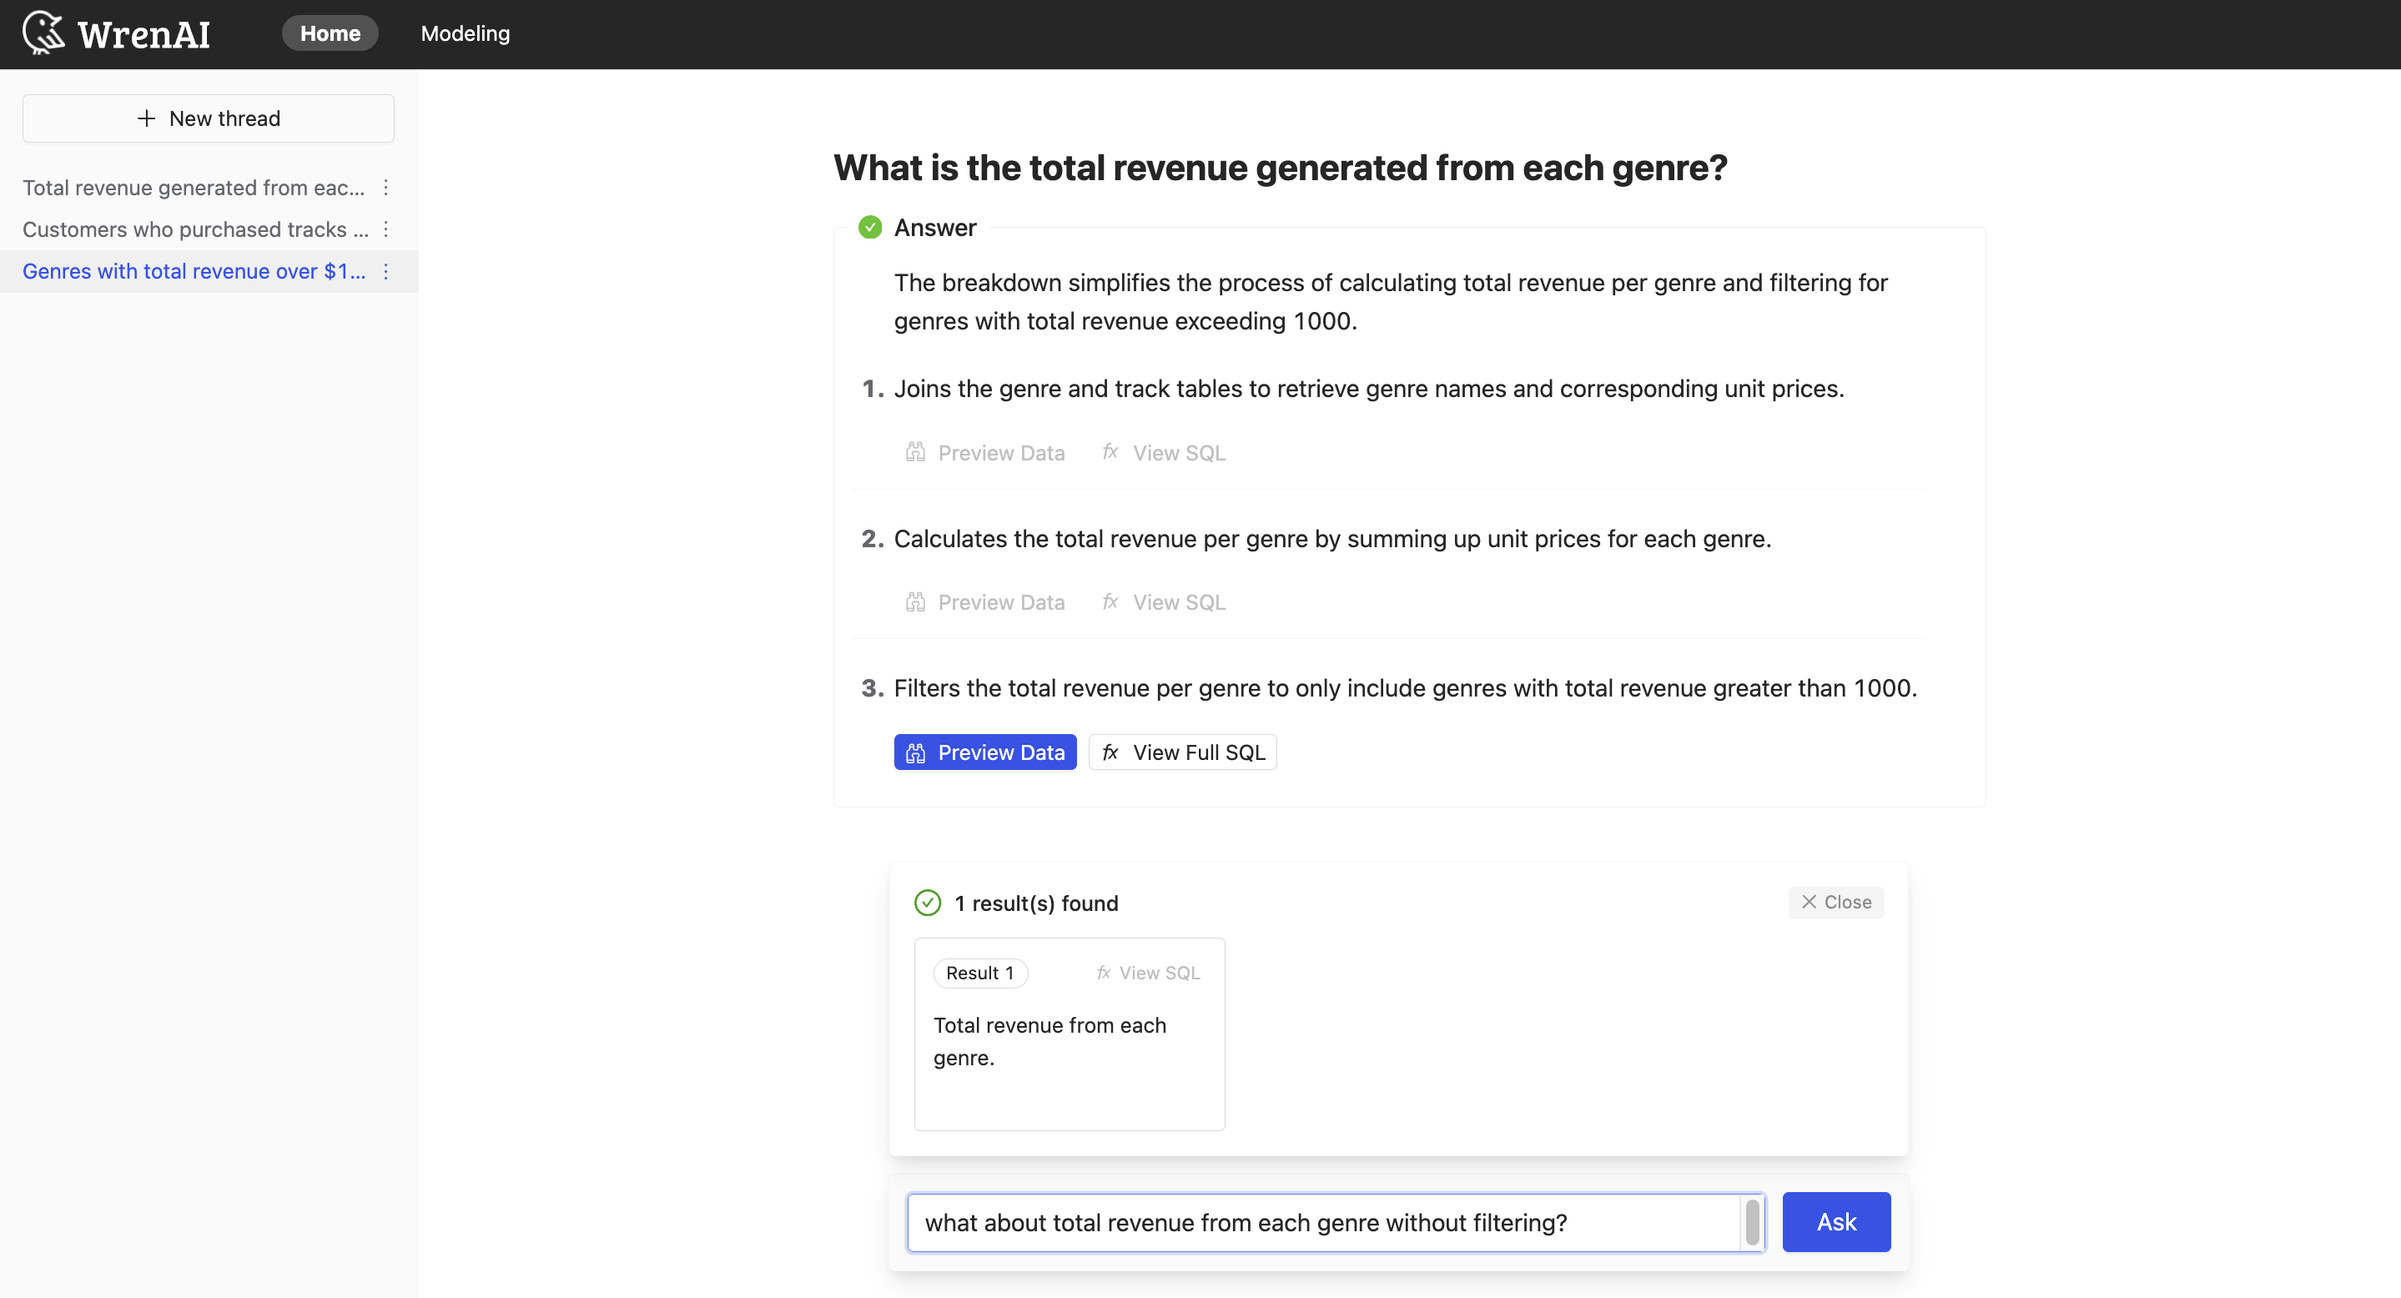
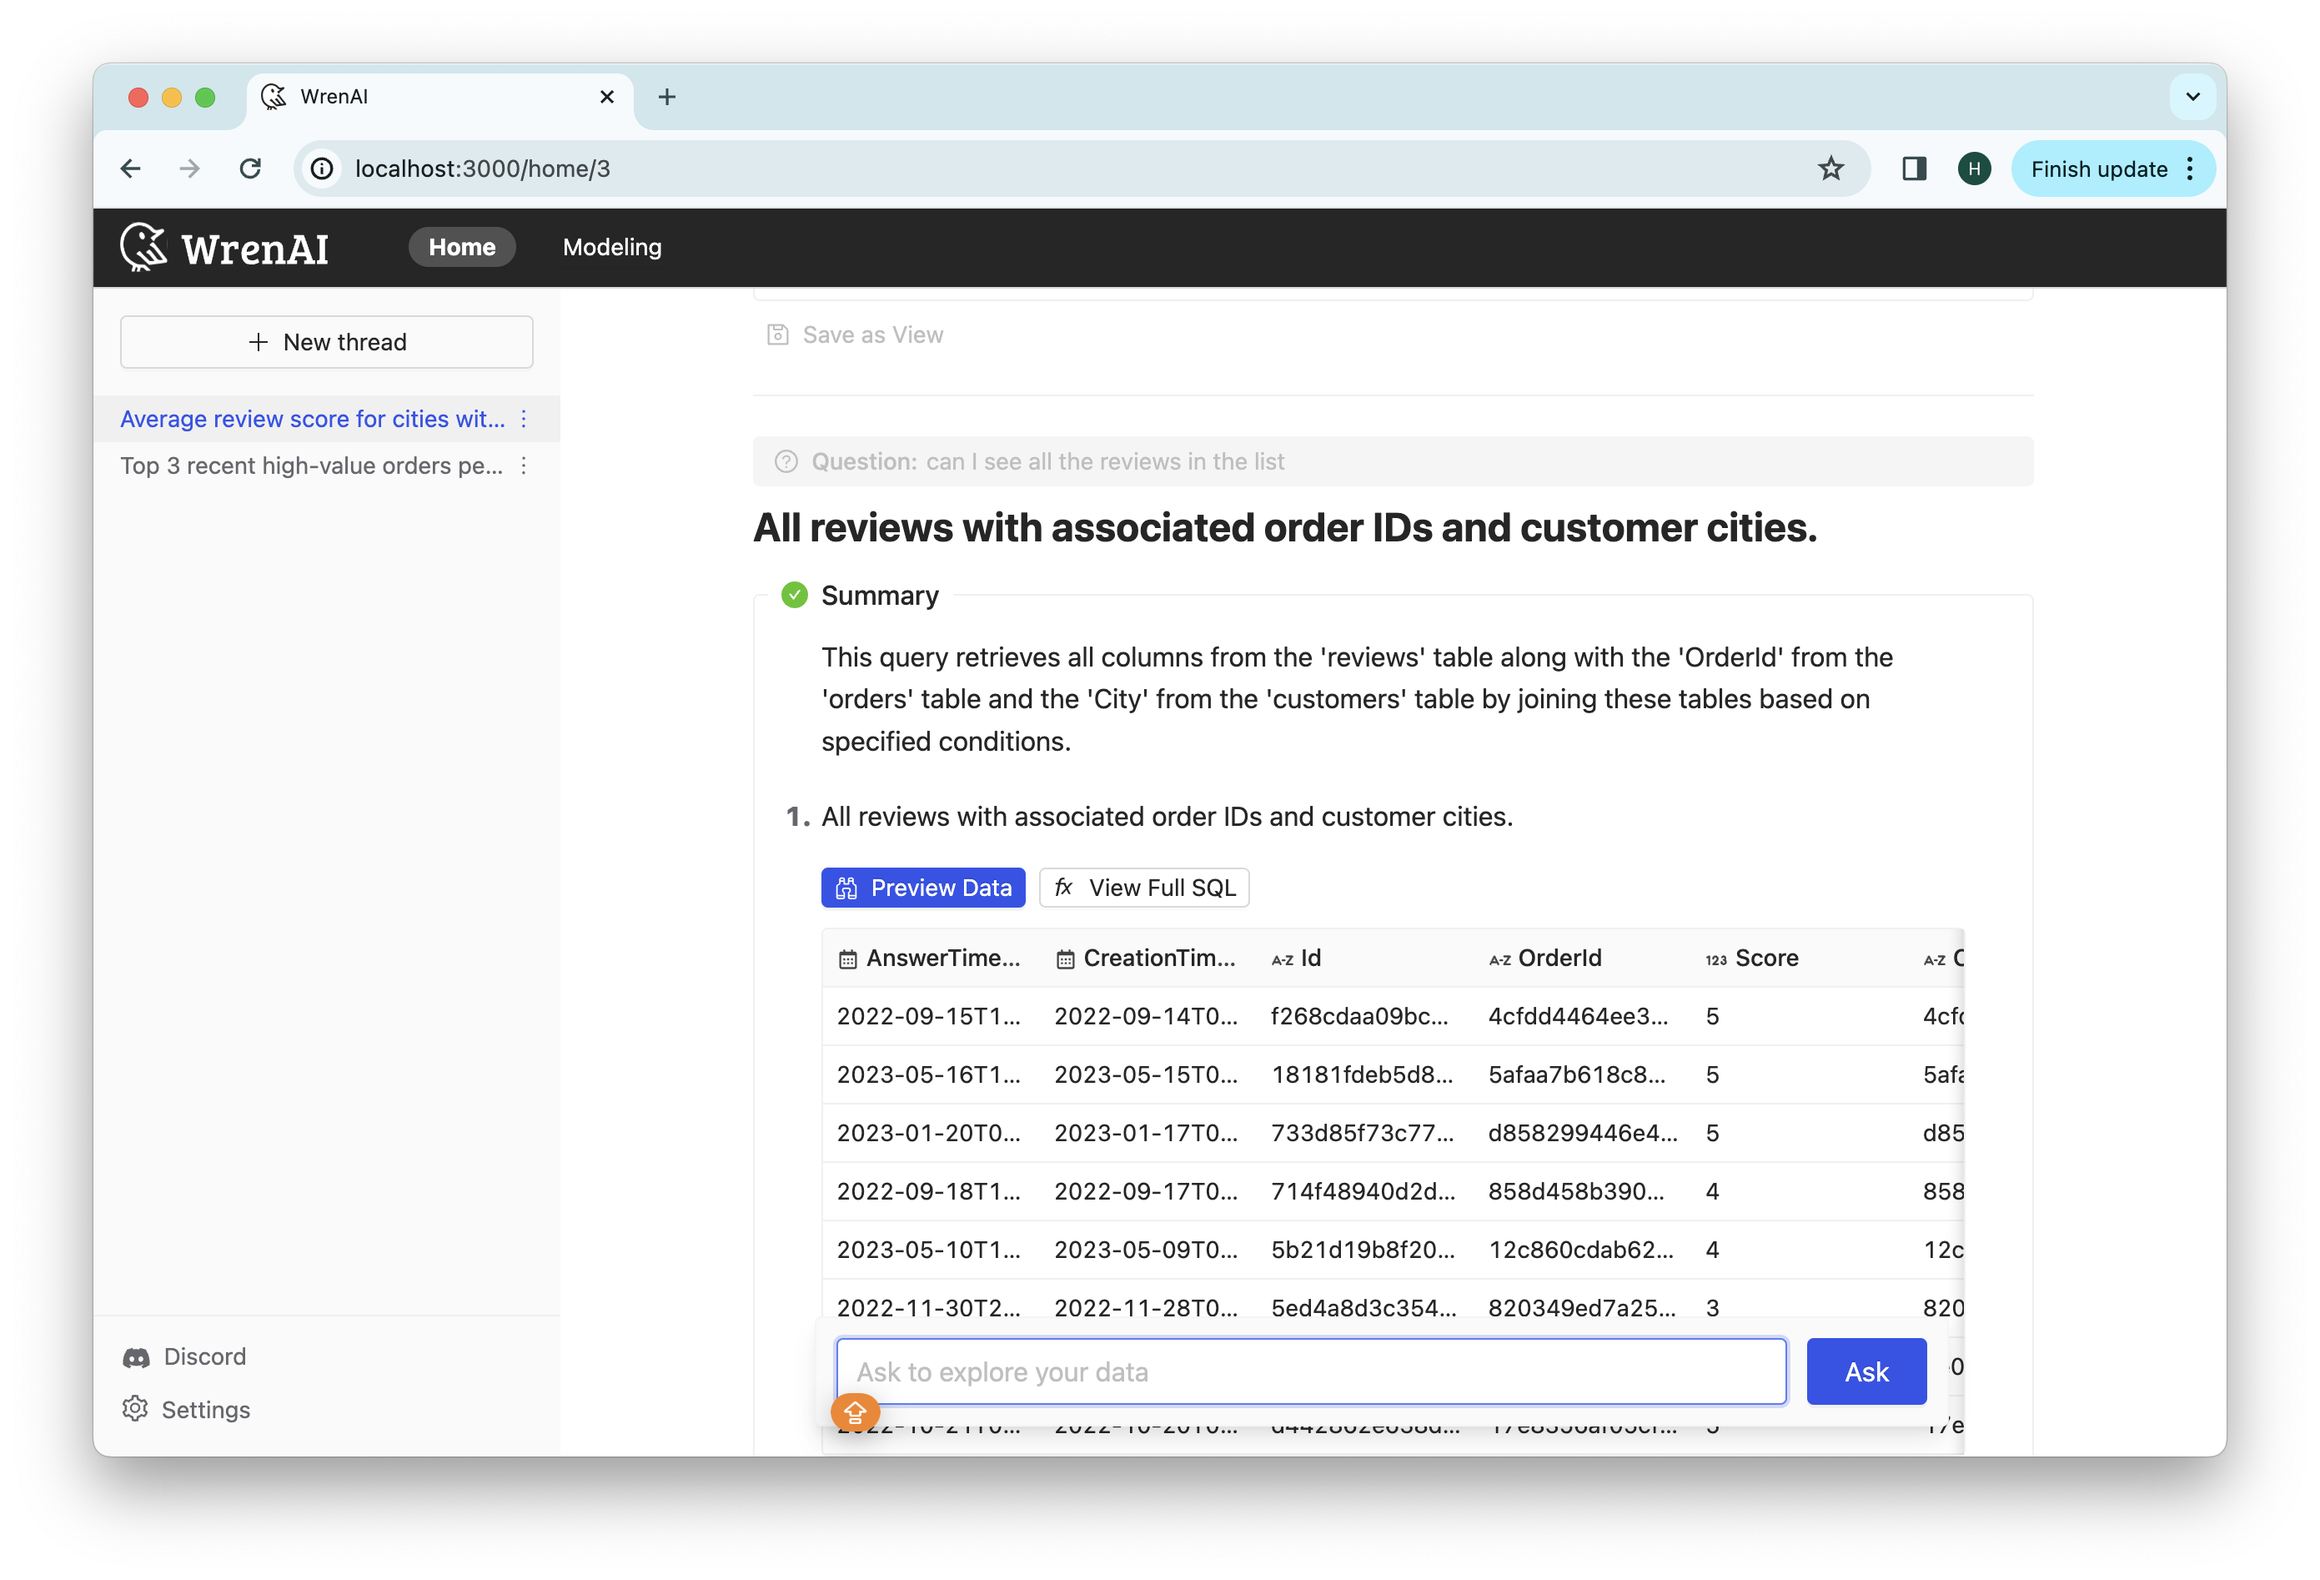
Update readme with preview image

diff --git a/README.md b/README.md
@@ -58,13 +58,23 @@ WrenAI is reimagining how businesses can interact with and leverage their data t
 
 > WrenAI evolves with every interaction. It learns from user feedback and behavioral patterns, continuously refining its suggestions.
 
+## 🔥 Preview
+
+### Ask your business questions and follow-up insights
+
+![](./misc/preview_ask.png)
+
+### Modeling with semantics, such as relationships, metrics and calculations
+
+![](./misc/preview_model.png)
+
 ## 🤔 Benefits using WrenAI
 
 WrenAI leverages Large Language Models (LLM) with Retrieval-Augmented Generation (RAG) technology to enhance comprehension of internal data.  Below are the three key benefits:
 
 ### 1. Fast Onboarding
 
-> Discover and analyze your data with our user interface. Effortlessly generate results without needing to code.
+> Discover and analyze your data with our user interface. Suitable for data analysts, and non-technical users to use.
 
 ### 2. Secure By Design
 
